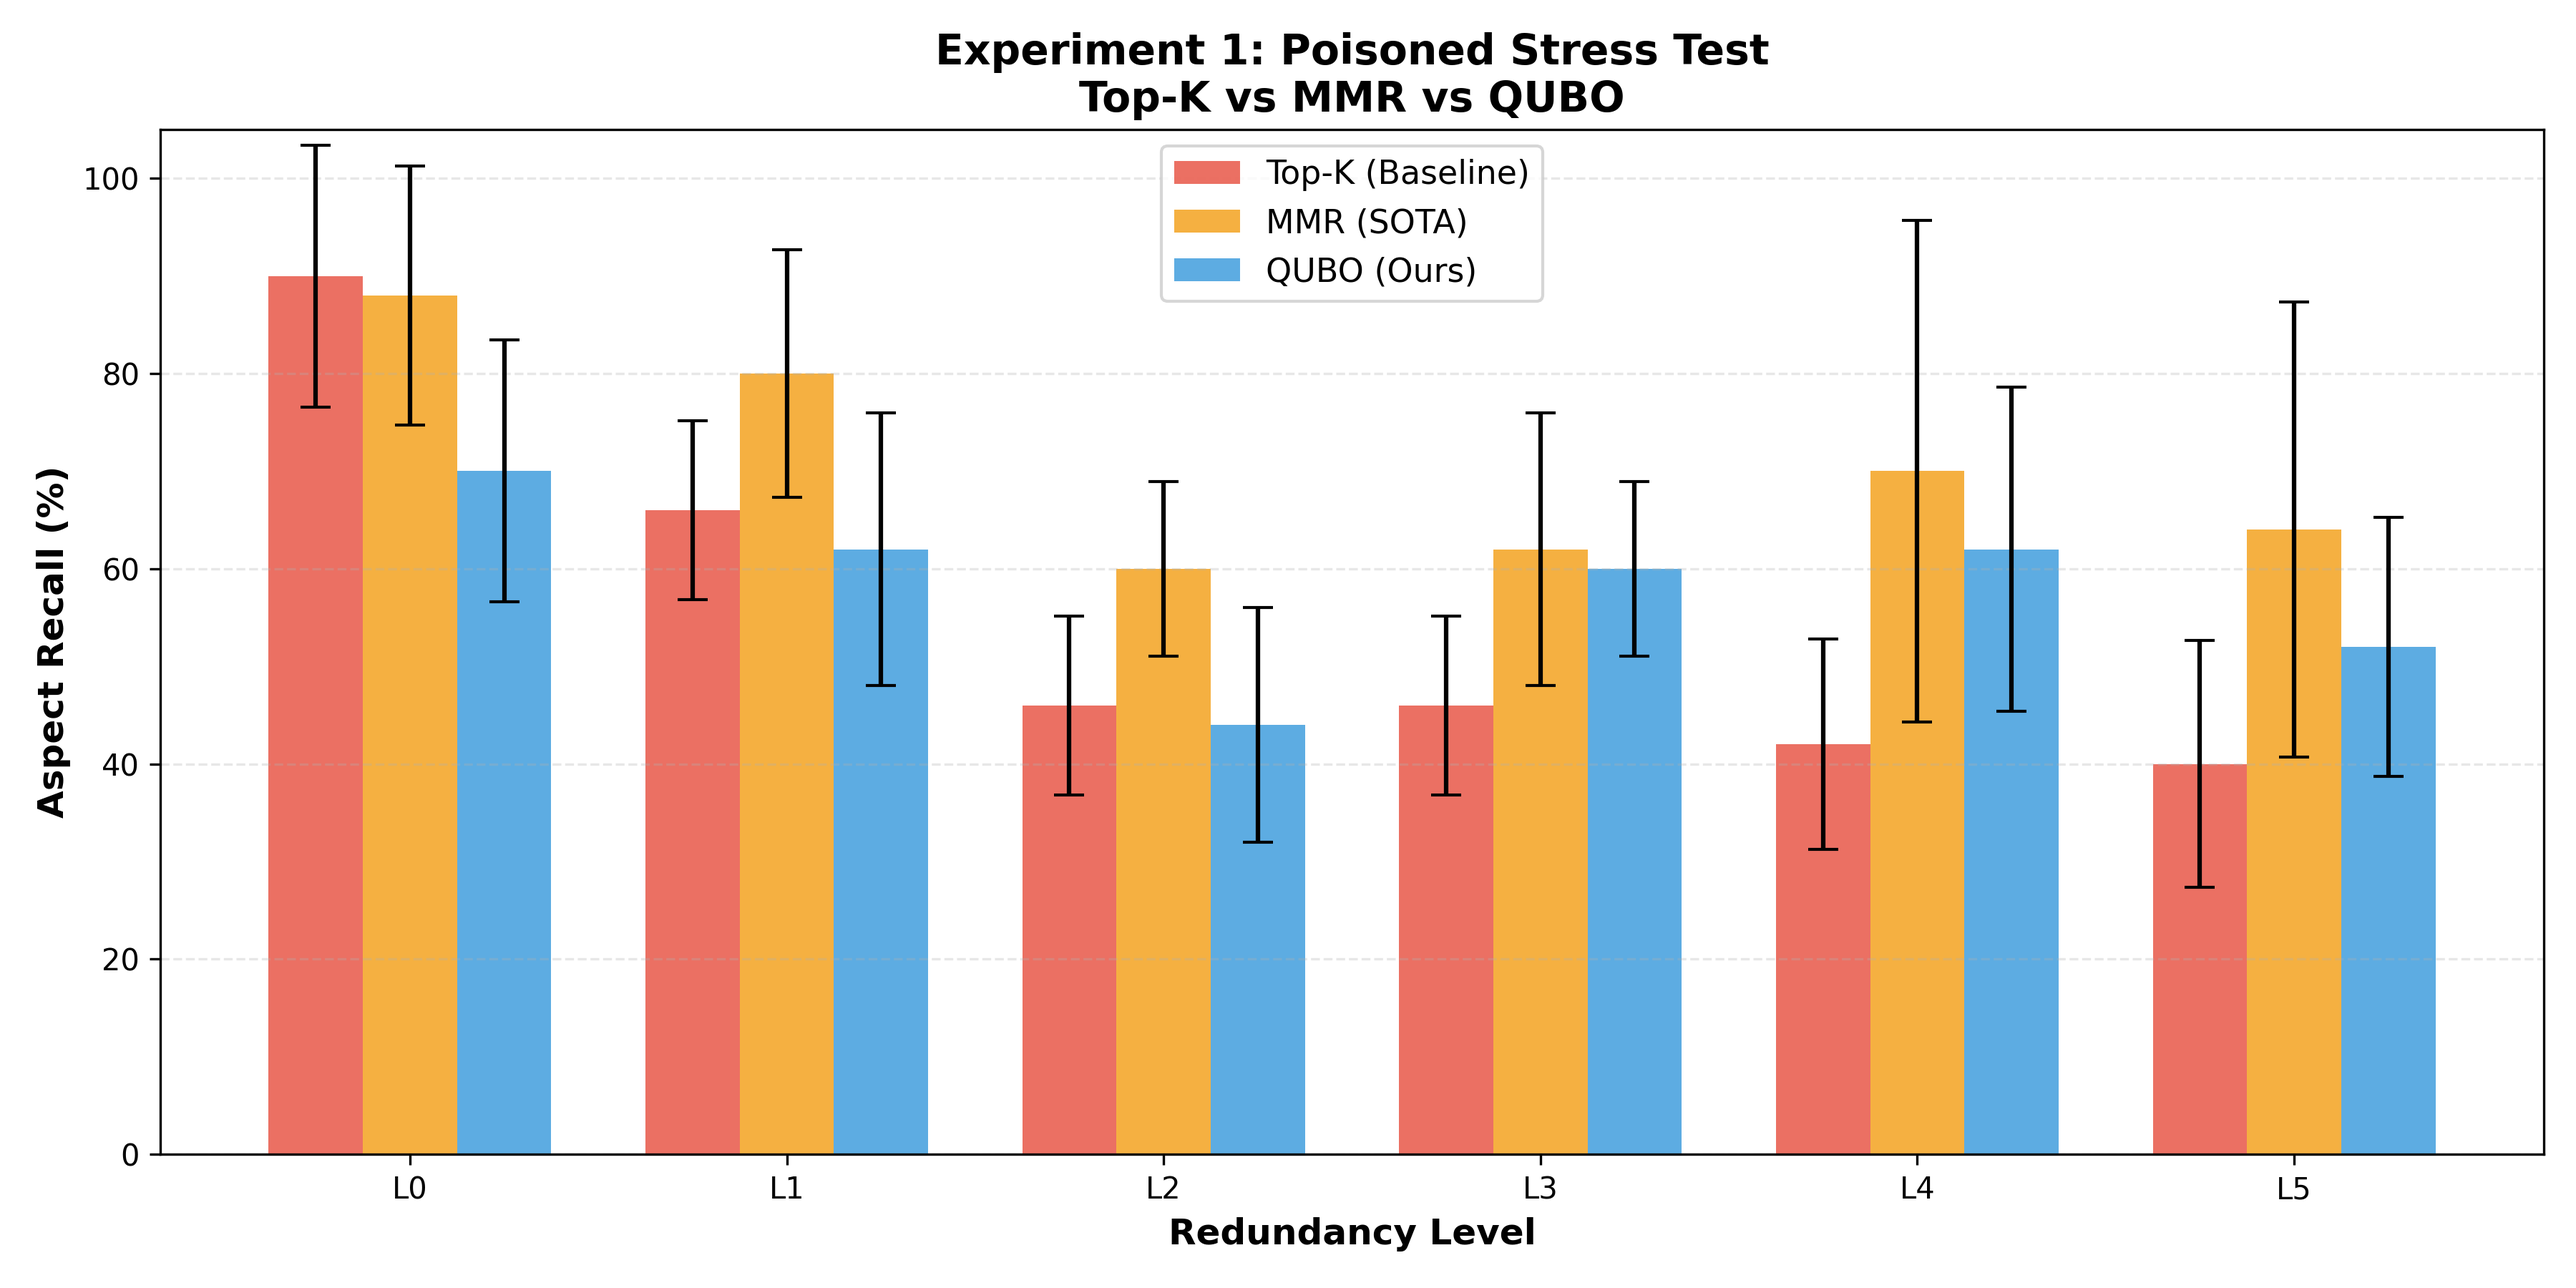
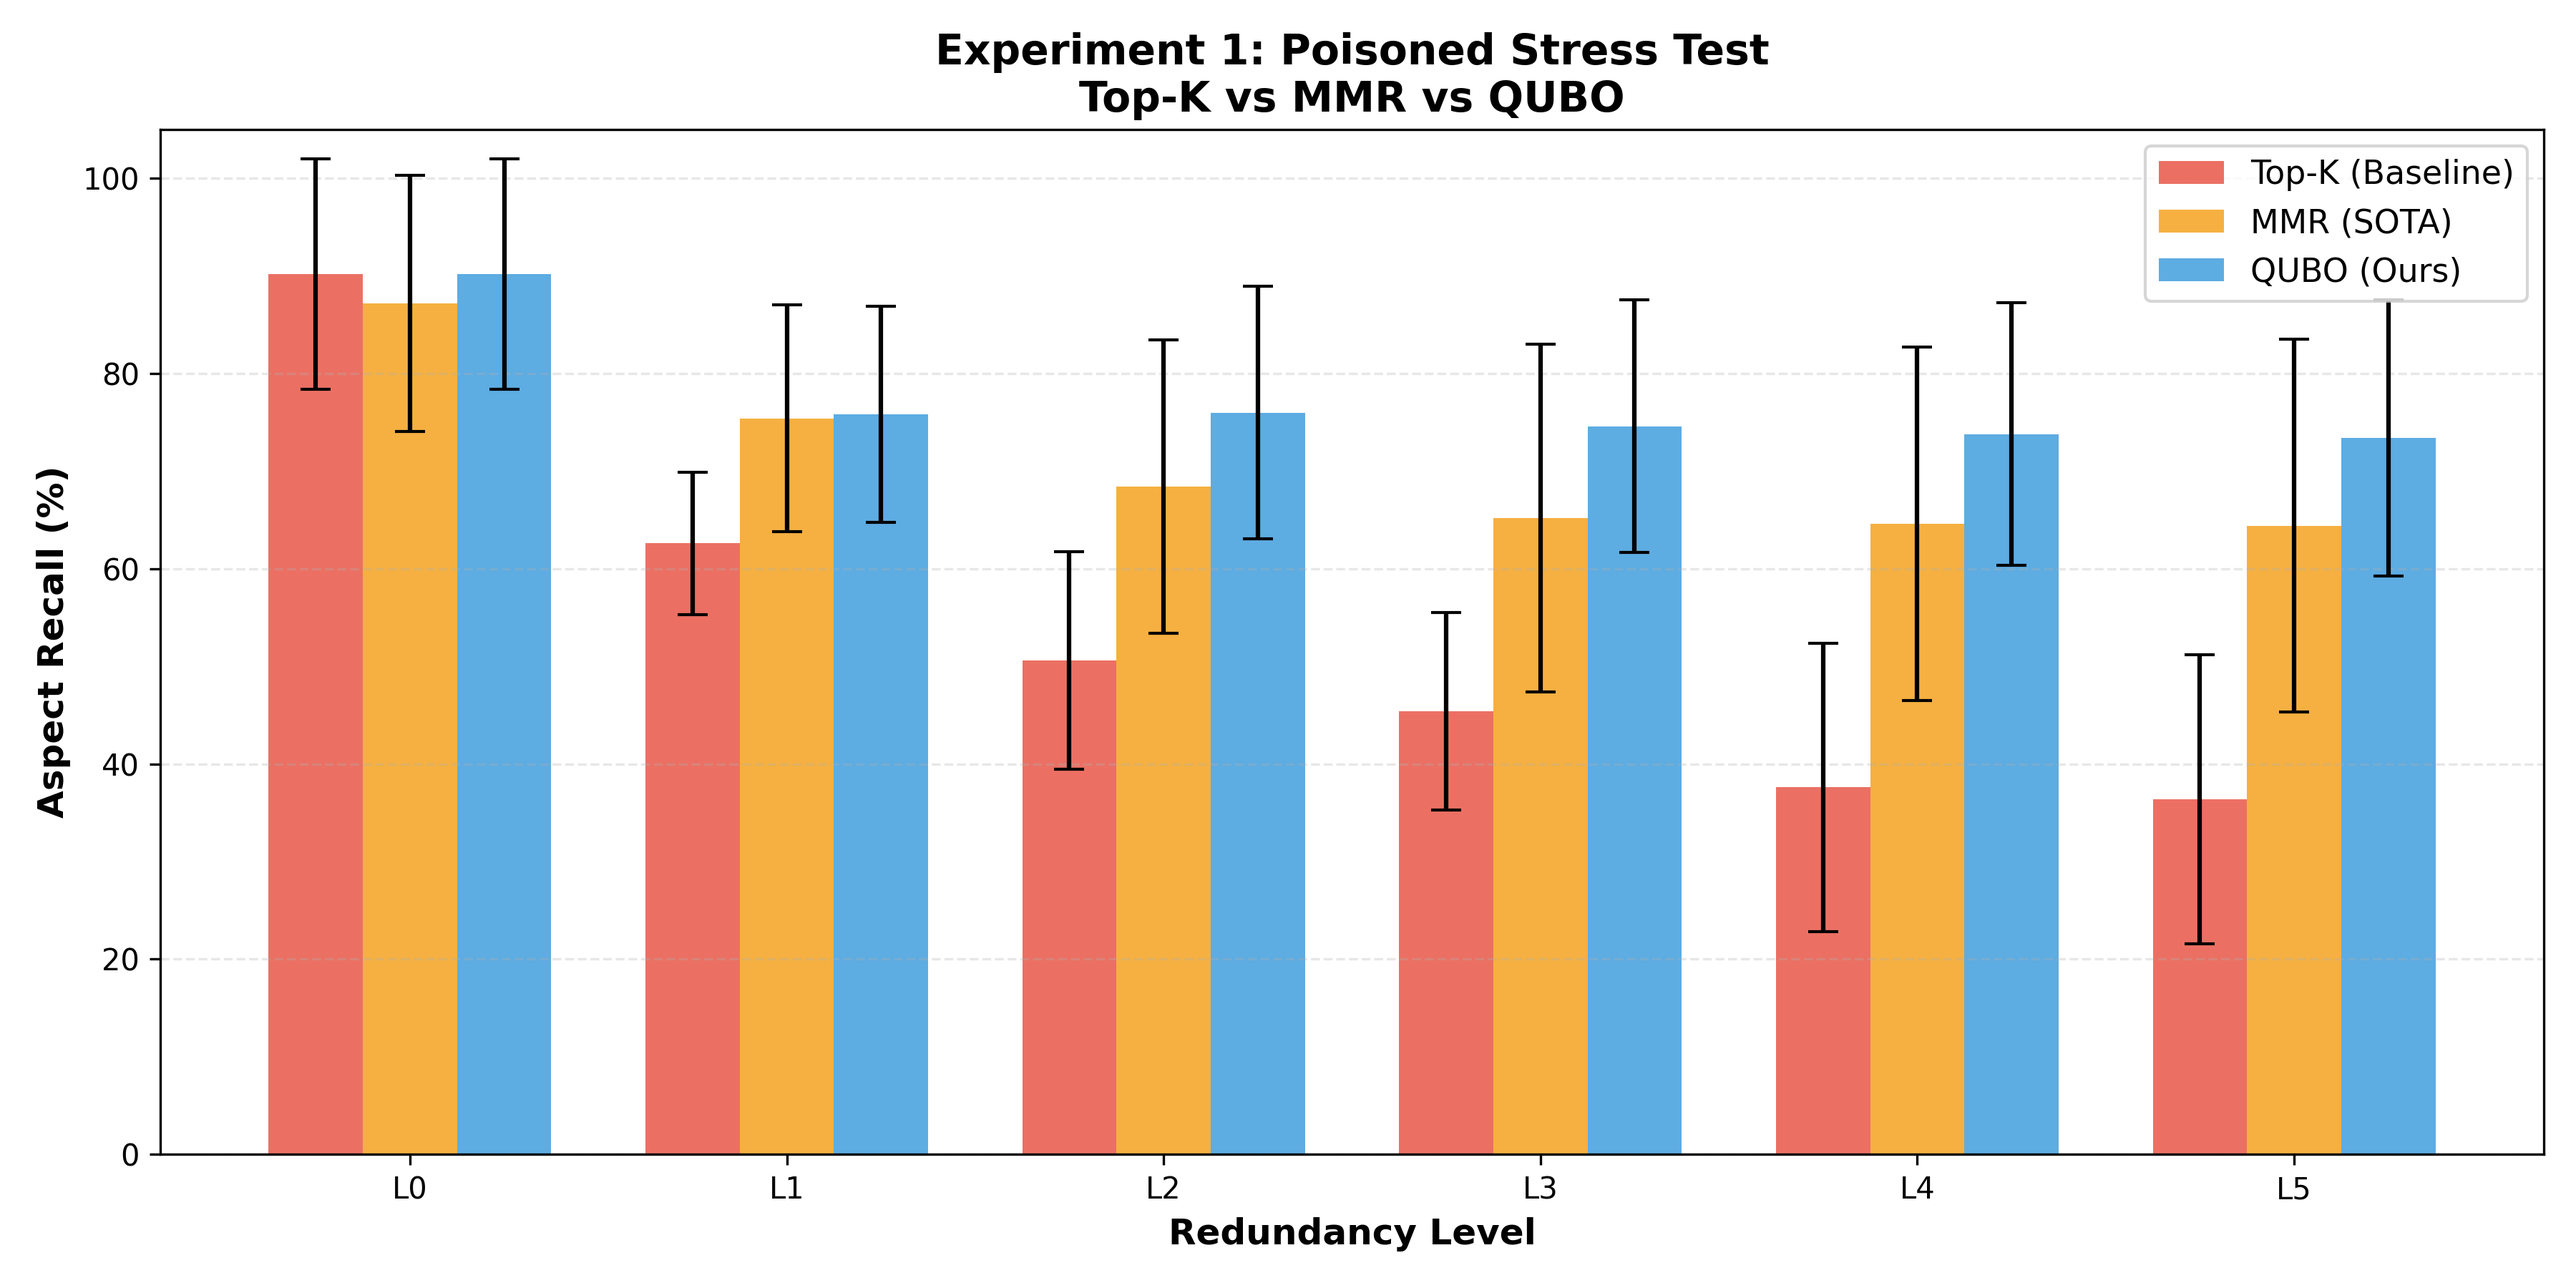
Fix(experiments): Correct data loading and finalize refactoring
This commit fixes a critical bug in the experiment scripts where chunks and embeddings were being mismatched during vector store population. It also completes the refactoring of the remaining experiment scripts to use the new streamlined core modules.

diff --git a/experiments/exp_1_poisoned_stress_test.py b/experiments/exp_1_poisoned_stress_test.py
@@ -27,7 +27,7 @@ from core.utils import (
     compute_aspect_recall
 )
 
-def run_retrieval_comparison(chunks, embeddings_dict, redundancy_level, k=5, num_prompts=10, beta=0.4):
+def run_retrieval_comparison(chunks, embeddings_dict, redundancy_level, k=5, num_prompts=10):
     """Runs Top-K, MMR, and QUBO comparison for a given redundancy level."""
     all_prompt_ids = list(set(c['prompt_id'] for c in chunks if c.get('chunk_type') == 'prompt'))
     prompt_ids = np.random.choice(all_prompt_ids, size=min(num_prompts, len(all_prompt_ids)), replace=False).tolist()
@@ -37,7 +37,7 @@ def run_retrieval_comparison(chunks, embeddings_dict, redundancy_level, k=5, num
     strategies = {
         'topk': NaiveRetrieval(),
         'mmr': MMRRetrieval(lambda_param=0.85),
-        'qubo': QUBORetrieval(alpha=0.04, penalty=1, beta=beta, solver='gurobi')
+        'qubo': QUBORetrieval(alpha=0.02, penalty=1, beta=0.8, solver='gurobi')
     }
     
     recalls = {name: [] for name in strategies}
@@ -120,14 +120,13 @@ def plot_results(all_results, output_path):
 def main():
     parser = argparse.ArgumentParser(description='Experiment 1: Poisoned Stress Test')
     parser.add_argument('--num-prompts', type=int, default=10, help='Number of prompts to test.')
-    parser.add_argument('--beta', type=float, default=0.4, help='QUBO similarity threshold.')
     args = parser.parse_args()
 
     print("--- Running Experiment 1: Poisoned Stress Test ---")
     chunks, embeddings_dict = load_wikipedia_dataset()
 
     all_results = [
-        run_retrieval_comparison(chunks, embeddings_dict, level, k=5, num_prompts=args.num_prompts, beta=args.beta)
+        run_retrieval_comparison(chunks, embeddings_dict, level, k=5, num_prompts=args.num_prompts)
         for level in range(6)
     ]
 

diff --git a/experiments/exp_2_parameter_tuning.py b/experiments/exp_2_parameter_tuning.py
@@ -148,13 +148,15 @@ def main():
     embedder = EmbeddingGenerator()
     vector_store = VectorStore(reset=True)
     
+    # Populate the vector store safely
     from core.data_models import EmbeddedChunk, Chunk
-    embedded_chunks = [
-        EmbeddedChunk(
-            chunk=Chunk(id=cid, text=c.get('text', ''), source=c.get('source', 'unknown'), metadata=c), 
-            embedding=emb
-        ) for cid, c, emb in zip(embeddings_dict.keys(), chunks, embeddings_dict.values())
-    ]
+    embedded_chunks = []
+    for chunk_data in chunks:
+        chunk_id = chunk_data.get('chunk_id')
+        if chunk_id in embeddings_dict:
+            chunk_obj = Chunk(id=chunk_id, text=chunk_data.get('text', ''), source=chunk_data.get('article_title', 'unknown'), metadata=chunk_data)
+            embedding = embeddings_dict[chunk_id]
+            embedded_chunks.append(EmbeddedChunk(chunk=chunk_obj, embedding=embedding))
     vector_store.add(embedded_chunks)
     
     retriever = Retriever(embedder, vector_store)
